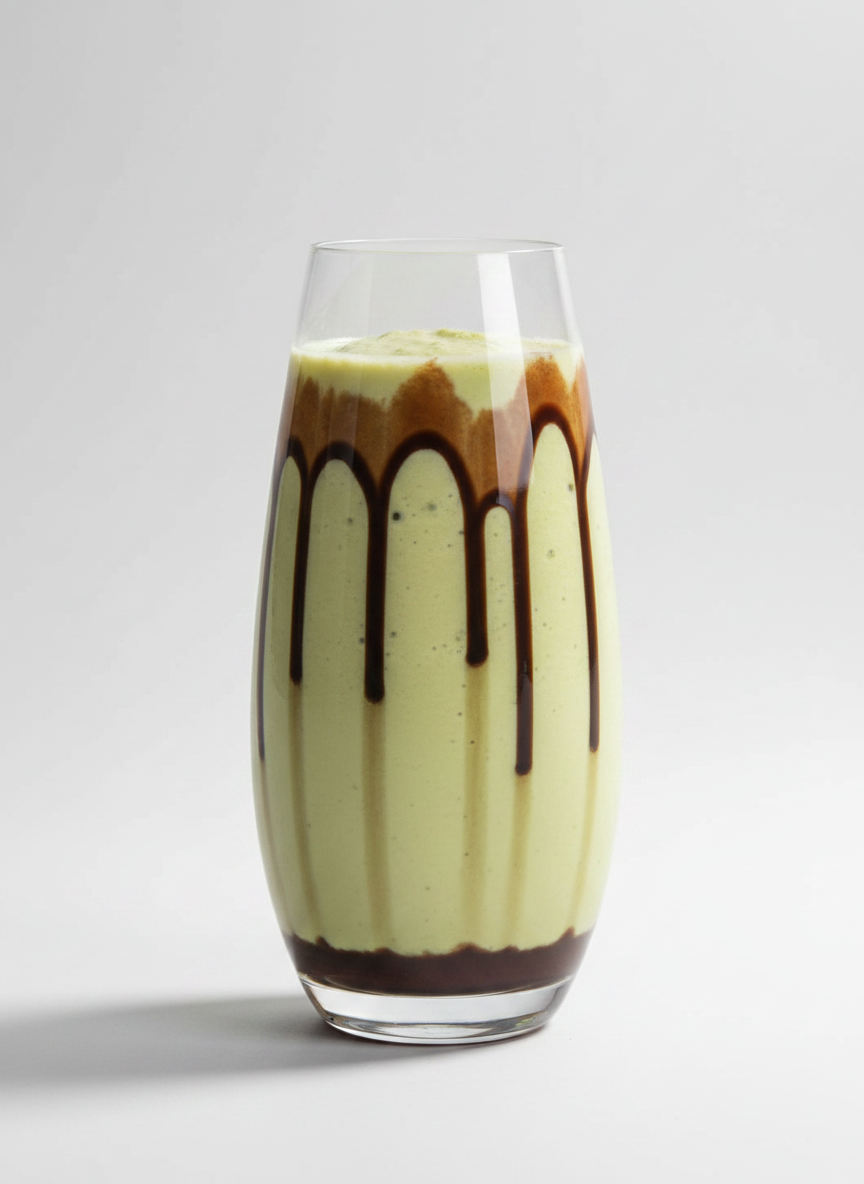
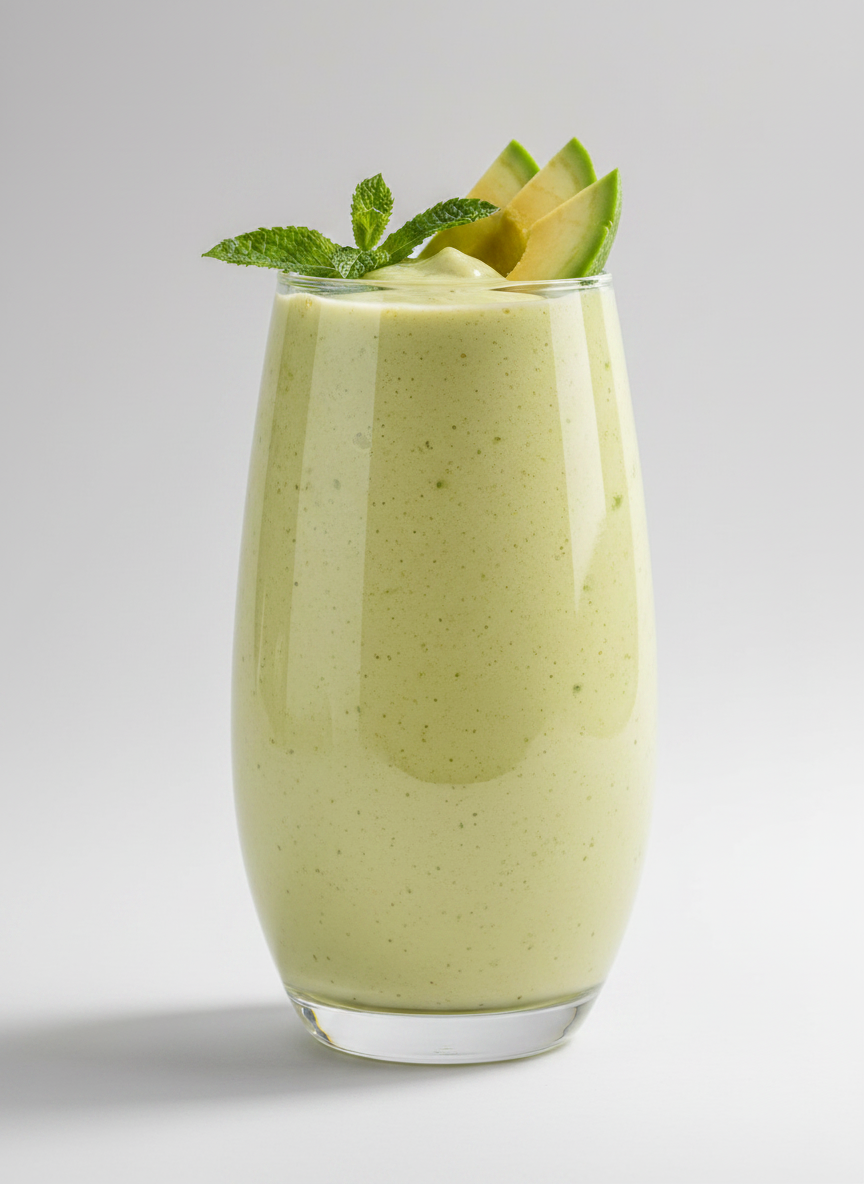
Fix the prop compositing, tighten the glass, make the drink appetising
Three faults, one of them a real bug.

The avocado read as if it sat behind the pouch. That was not placement: the
ratio layer multiplies, so the fruit over the black pouch was multiplied down to
near black. The subject is now alpha-composited over the backdrop, developed
against bone white, and only the area outside it keeps the multiply, which is
still what the cast shadow needs.

The glass looked far from the pouch even though the numbers matched the Matchamu
reference. The pouch is a box-bottom mockup whose right edge sits at 94-98
percent of its bounding box across the glass band, and the glass box carried its
own shadow on the left - about 30 px of dead space between two boxes that were
technically touching. Sizing and anchoring now use the glass body: the rim
rather than the tip of the garnish, and the horizontal extent measured on the
upper half so neither an overhanging garnish nor the shadow pooling at the foot
can widen it. On one render that difference measured the same glass at 503 px
instead of 394, which would have drifted the glass across the pouch from product
to product.

The drink is regenerated against the smoothie reference: thick, creamy, flecked,
garnished with mint and avocado slices, and no straw. Both a plain and a
chocolate version are kept; the plain one is the sample, since the chocolate
glass is narrower and crowds the pouch wordmark.

Claude-Session: https://claude.ai/code/session_01A4GLsk6vKeeUp3C5p2a7yr

Changed region(s): [[0.0, 0.0938, 0.75, 0.9688]]

diff --git a/nomukita-carousel/photo.py b/nomukita-carousel/photo.py
@@ -17,6 +17,7 @@ from scipy import ndimage as ndi
 FLAT = 0.018      # below this the layer counts as untouched background
 OBJ = 0.06        # fallback: deviation that counts as the object
 EDGE = 2.6        # gradient strength that separates the subject from its shadow
+BONE = (241, 240, 235)   # slide background the subject is developed against
 
 
 def _layer(path):
@@ -79,28 +80,54 @@ def _layer(path):
     ratio = 1 + (ratio - 1) * (soft * fade)[..., None]
 
     ys, xs = np.nonzero(obj)
-    return ratio, (int(xs.min()), int(ys.min()), int(xs.max()) + 1, int(ys.max()) + 1)
+    return ratio, obj, (int(xs.min()), int(ys.min()), int(xs.max()) + 1, int(ys.max()) + 1)
 
 
 _CACHE = {}
+_MASK = {}
 
 
 def load(path):
     if path not in _CACHE:
-        _CACHE[path] = _layer(path)
+        ratio, obj, bb = _layer(path)
+        _CACHE[path] = (ratio, bb)
+        _MASK[path] = obj
     return _CACHE[path]
 
 
-def size_at(path, height):
+def box(path, body=False):
+    """Subject box. With `body=True` the top is the glass rim rather than the
+    tip of the garnish: a mint sprig or a fruit slice on the rim would otherwise
+    count toward the height, and every product would end up with a differently
+    sized glass."""
+    ratio, bb = load(path)
+    if not body:
+        return bb
+    mask = _MASK[path]
+    l, t, r, b = bb
+    widths = mask[:, l:r].sum(1)
+    wide = np.nonzero(widths >= 0.6 * widths.max())[0]
+    rim = int(wide.min())
+    # Horizontal extent measured on the upper half of the body only. A garnish
+    # leaning out of the rim would widen the box from above, and the cast shadow
+    # pooling at the foot merges into the mask from below - on one render that
+    # made the same glass measure 503 px wide instead of 394, which would drift
+    # the glass across the pouch from product to product.
+    cols = np.nonzero(mask[rim:rim + (b - rim) // 2].any(0))[0]
+    return int(cols.min()), rim, int(cols.max()) + 1, b
+
+
+def size_at(path, height, body=False):
     """Width the object occupies when scaled to `height`."""
-    _, (l, t, r, b) = load(path)
+    l, t, r, b = box(path, body)
     return round((r - l) * height / (b - t))
 
 
-def place(canvas, path, left, bottom, height):
+def place(canvas, path, left, bottom, height, body=False):
     """Draw the photo so its subject lands at `left`, standing `height` tall
     with its foot on `bottom`."""
-    ratio, (l, t, r, b) = load(path)
+    ratio, _ = load(path)
+    l, t, r, b = box(path, body)
     H, W = ratio.shape[:2]
     scale = height / (b - t)
     ox = int(round(left - l * scale))
@@ -109,6 +136,16 @@ def place(canvas, path, left, bottom, height):
 
     under = canvas.crop((ox, oy, ox + tw, oy + th)).convert("RGB")
     backdrop = np.array(under.resize((W, H), Image.LANCZOS)).astype(float)
-    out = np.clip(backdrop * ratio, 0, 255).astype(np.uint8)
+
+    # A ratio layer multiplies, which is right for the cast shadow but wrong for
+    # the subject: over the black pouch an avocado would be multiplied down to
+    # near black and read as sitting *behind* the pouch. So the subject is
+    # composited over the backdrop, developed against bone white, and only the
+    # area outside it keeps the multiply.
+    obj = _MASK[path]
+    alpha = ndi.gaussian_filter(obj.astype(float), 1.0)[..., None]
+    shadow = np.where(obj[..., None], 1.0, ratio)
+    subject = ratio * np.array(BONE, float)
+    out = np.clip(backdrop * shadow * (1 - alpha) + subject * alpha, 0, 255).astype(np.uint8)
     canvas.paste(Image.fromarray(out).resize((tw, th), Image.LANCZOS), (ox, oy))
     return canvas

diff --git a/nomukita-carousel/render_one.py b/nomukita-carousel/render_one.py
@@ -13,14 +13,14 @@ GLASS_H = 330
 PROP_H = 200
 POUCH_BOTTOM = 829
 BOTTOM = 855
-GLASS_OVERLAP = 16
-PROP_OVERLAP = 14
+GLASS_OVERLAP = 26   # Matchamu: gelas menimpa pouch ~4.5% lebar pouch, plus tepi pouch yang menjorok
+PROP_OVERLAP = 48    # cukup dalam agar jelas berada di depan pouch, bukan di belakangnya
 
 
 def build(idx, glass_img, prop_img=None, out='slide.png'):
     p = bs.PRODUCTS[idx]
     pw = round(POUCH_H * 0.695)
-    gw = photo.size_at(glass_img, GLASS_H)
+    gw = photo.size_at(glass_img, GLASS_H, body=True)
     aw = photo.size_at(prop_img, PROP_H) if prop_img else 0
     x0 = round(512 - (pw + gw - GLASS_OVERLAP - aw + PROP_OVERLAP) / 2)
 
@@ -44,7 +44,7 @@ def build(idx, glass_img, prop_img=None, out='slide.png'):
     flat = Image.new('RGB', (1024, 1024), bs.BG)
     flat.paste(c, (0, 0), c)
 
-    photo.place(flat, glass_img, x0 + pw - GLASS_OVERLAP, BOTTOM, GLASS_H)
+    photo.place(flat, glass_img, x0 + pw - GLASS_OVERLAP, BOTTOM, GLASS_H, body=True)
     if prop_img:
         photo.place(flat, prop_img, x0 + PROP_OVERLAP - aw, BOTTOM, PROP_H)
 
